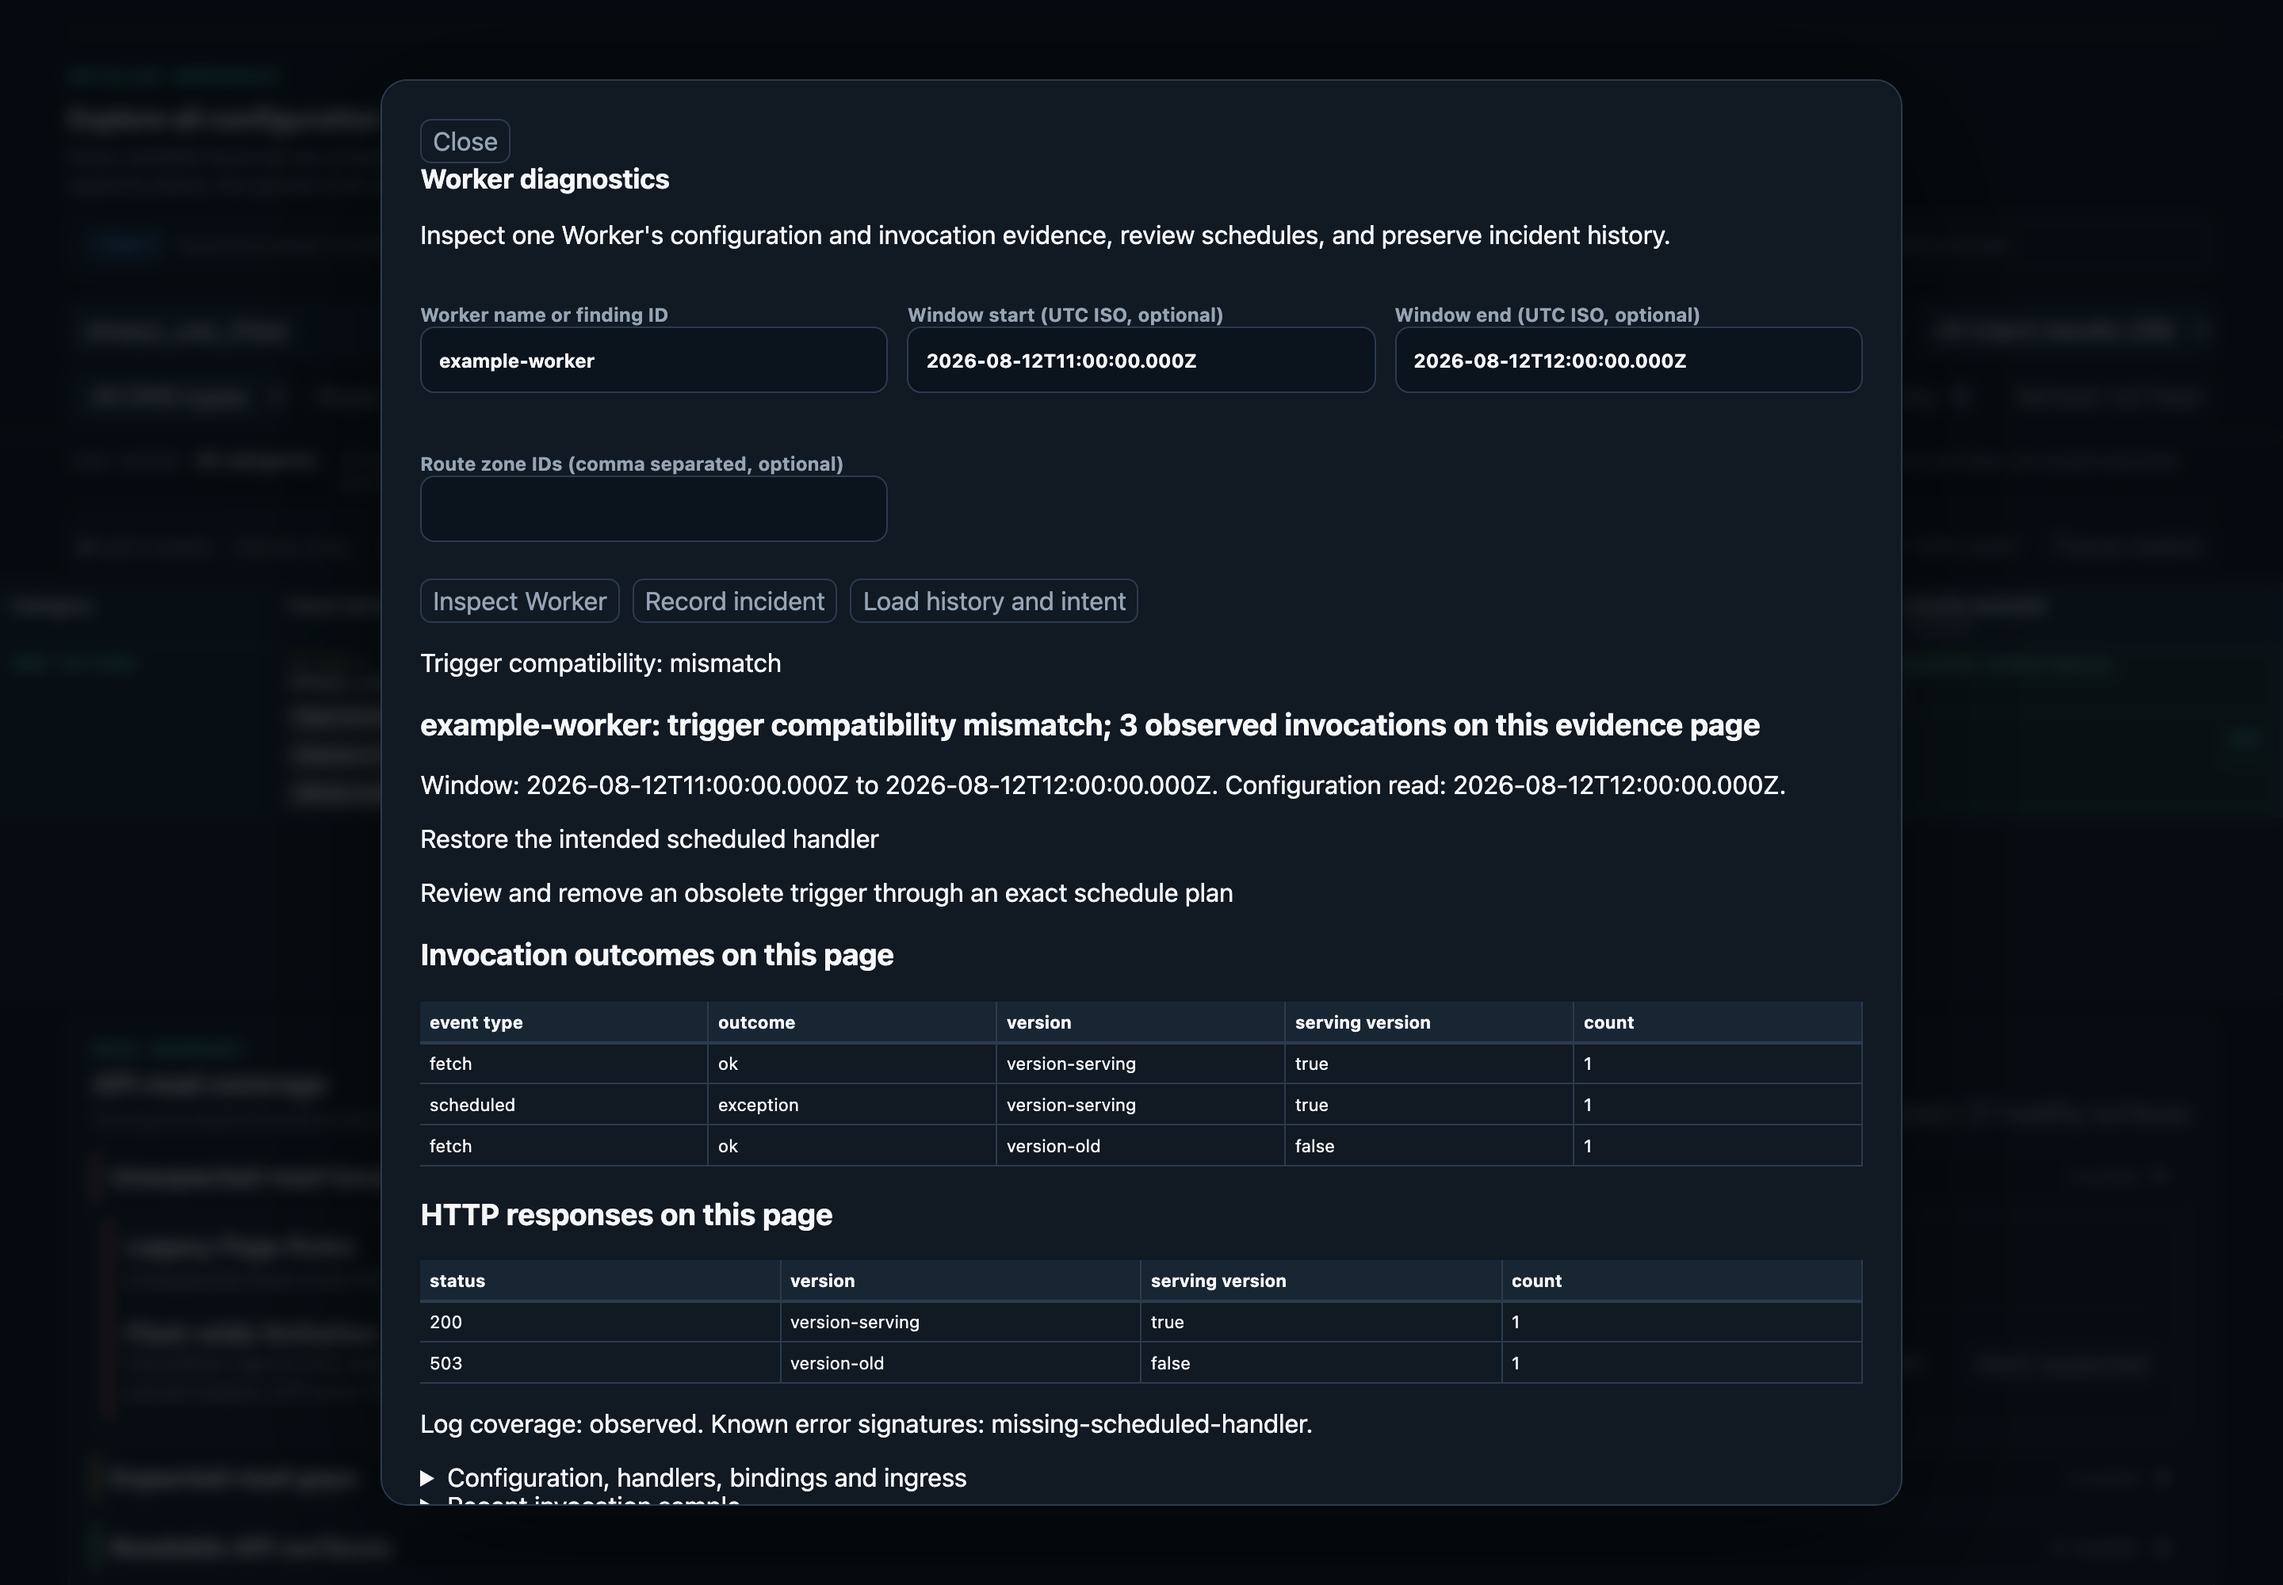
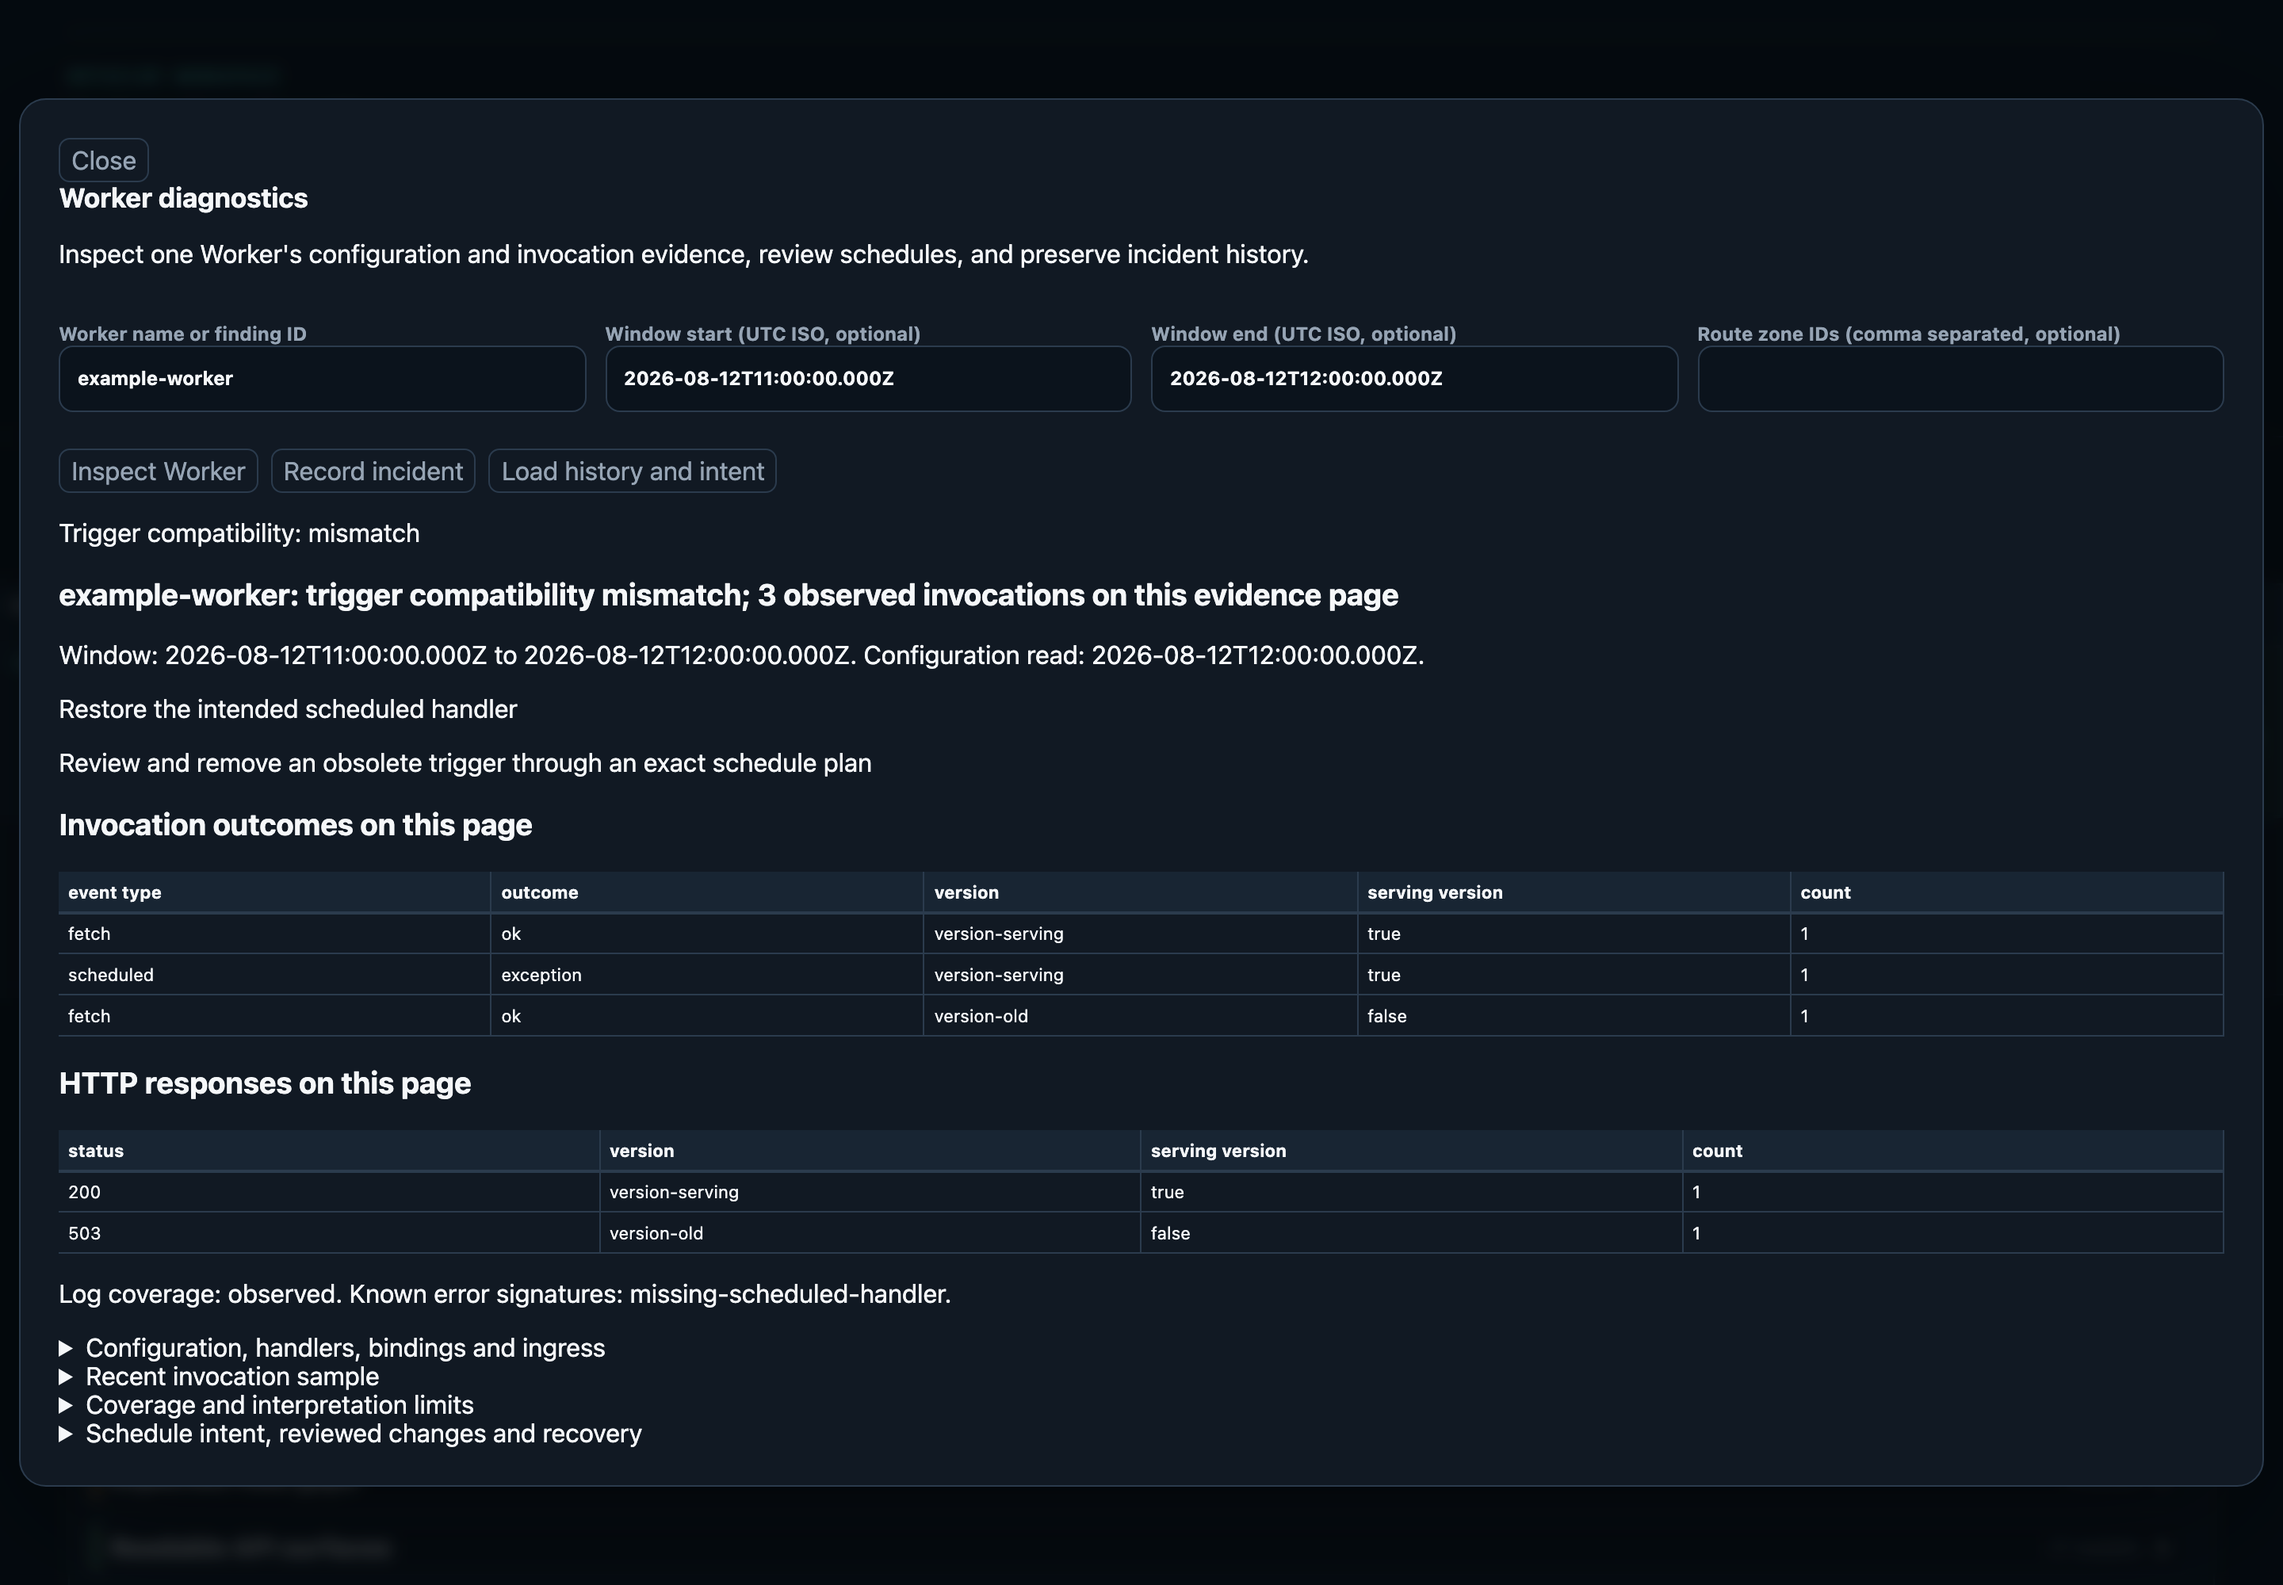
fix(ui): expand information-heavy dialogs
- Share viewport-aware sizing across operator workspaces
- Verify responsive bounds and refresh synthetic product screenshots

diff --git a/styles.css b/styles.css
@@ -16,6 +16,9 @@
   --category-width: 112px;
   --facet-width: 248px;
   --page-gutter: clamp(16px, 3vw, 44px);
+  --dialog-width: min(960px, calc(100vw - 24px));
+  --dialog-workspace-width: min(1680px, calc(100vw - 24px));
+  --dialog-workspace-height: calc(100dvh - 26px);
 }
 
 * {
@@ -2887,8 +2890,9 @@ body.matrix-focus .matrix-shell {
 }
 
 dialog {
-  width: min(720px, calc(100vw - 32px));
-  max-height: calc(100dvh - 32px);
+  width: var(--dialog-width);
+  max-width: calc(100vw - 24px);
+  max-height: calc(100dvh - 24px);
   overflow: auto;
   padding: 0;
   border: 1px solid var(--line);
@@ -2909,29 +2913,28 @@ dialog form {
 }
 
 .ruleset-dialog {
-  width: min(1120px, calc(100vw - 24px));
+  width: var(--dialog-workspace-width);
 }
 
 .value-comparison-dialog {
-  width: min(1180px, calc(100vw - 24px));
+  width: var(--dialog-workspace-width);
 }
 
 .intent-dialog {
   --intent-policy-card-min-width: 400px;
   --intent-value-preview-max-height: 240px;
-  width: min(1120px, calc(100vw - 24px));
+  width: var(--dialog-workspace-width);
   overflow: hidden;
 }
 
 #intent-policy-dialog {
   --intent-value-preview-max-height: 240px;
-  width: min(1120px, calc(100vw - 24px));
+  width: var(--dialog-workspace-width);
 }
 
 .intent-workflow-dialog {
-  width: min(1120px, calc(100vw - 24px));
-  height: min(860px, calc(100dvh - 34px));
-  max-height: calc(100dvh - 34px);
+  width: var(--dialog-workspace-width);
+  height: var(--dialog-workspace-height);
   overflow: hidden;
 }
 
@@ -2942,7 +2945,7 @@ dialog form {
 }
 
 .activity-dialog {
-  width: min(920px, calc(100vw - 24px));
+  width: var(--dialog-workspace-width);
   overflow: hidden;
 }
 
@@ -2951,8 +2954,7 @@ dialog form {
   display: grid;
   grid-template-rows: auto auto minmax(0, 1fr) auto;
   gap: 12px;
-  height: min(820px, calc(100dvh - 34px));
-  max-height: calc(100dvh - 34px);
+  height: var(--dialog-workspace-height);
   padding: 22px;
 }
 
@@ -3250,8 +3252,7 @@ dialog form {
   display: grid;
   grid-template-rows: auto auto auto auto minmax(0, 1fr) auto;
   gap: 14px;
-  height: min(860px, calc(100dvh - 34px));
-  max-height: calc(100dvh - 34px);
+  height: var(--dialog-workspace-height);
   padding: 22px;
 }
 
@@ -3265,7 +3266,7 @@ dialog form {
 }
 
 .intent-adoption-dialog {
-  width: min(1120px, calc(100vw - 24px));
+  width: var(--dialog-workspace-width);
   overflow: hidden;
 }
 
@@ -3274,8 +3275,7 @@ dialog form {
   display: grid;
   grid-template-rows: auto auto auto minmax(180px, 1fr) auto;
   gap: 12px;
-  height: min(860px, calc(100dvh - 34px));
-  max-height: calc(100dvh - 34px);
+  height: var(--dialog-workspace-height);
   padding: 20px;
 }
 
@@ -6390,8 +6390,7 @@ dialog details > summary {
   }
 }
 #worker-diagnostics-dialog {
-  width: min(960px, 94vw);
-  max-height: 90vh;
+  width: var(--dialog-workspace-width);
   overflow: auto;
 }
 
